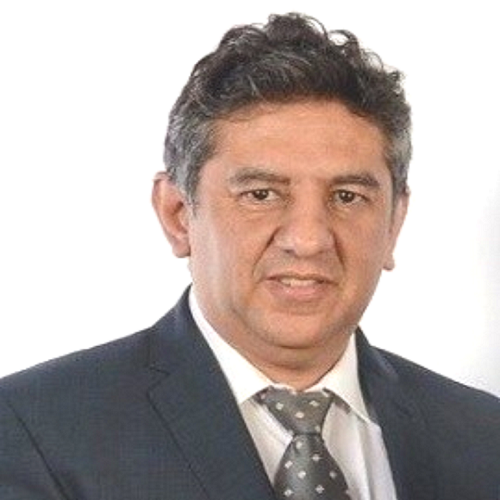
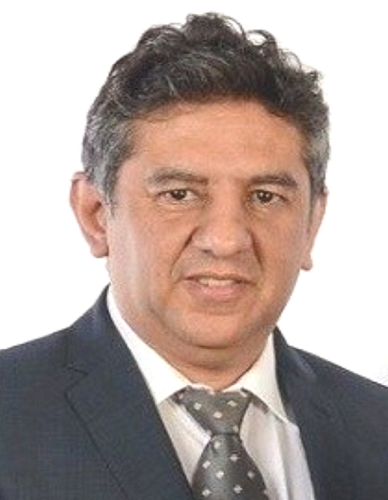
photo fixed

diff --git a/index.html b/index.html
@@ -119,7 +119,7 @@
             <div class="mobil">
                 <p>
                     <i class="fa-solid fa-file icon"></i> 
-                    <a class="link_cv" href="https://drive.google.com/file/d/1p7ezfLUzwXhYZMyKsquJGduT29B5q0SV/view?usp=sharing">
+                    <a class="link_cv" href="https://drive.google.com/file/d/1MjWWcZ5tzUZlr6uX6gmdKFZIdJRwRBXq/view?usp=sharing" target="_blank">
                         Descarga mi CV
                     </a>
                 </p>
